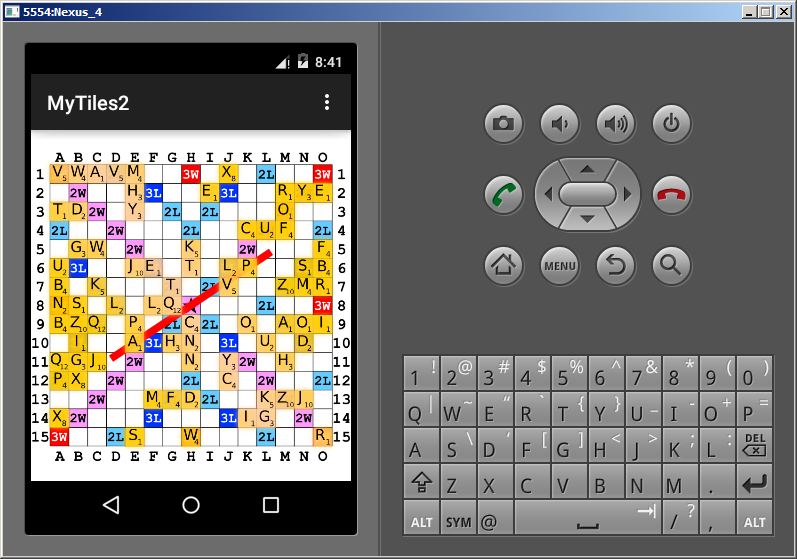
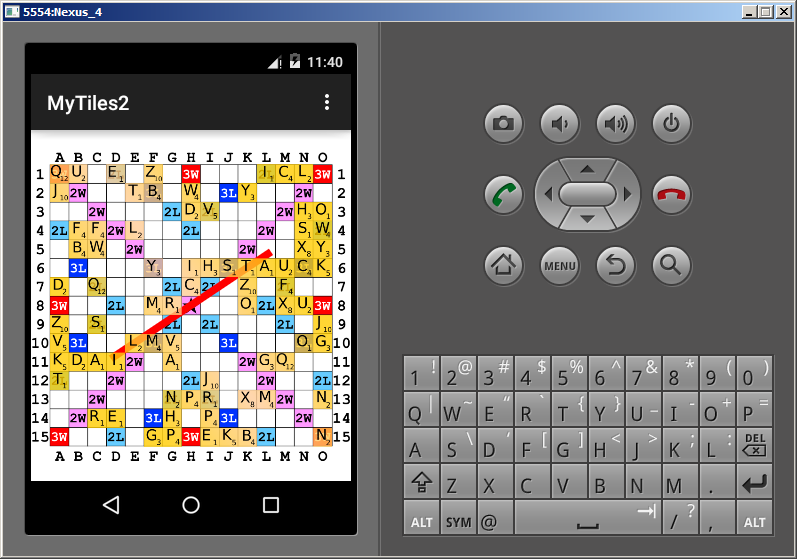
Don't use round_XXX and square_XXX when drawing small tiles

Changed region(s): [[0.0602, 0.2737, 0.4216, 0.8211], [0.3312, 0.0912, 0.4517, 0.1216], [0.3915, 0.7603, 0.4216, 0.8211]]

diff --git a/MyTiles2/src/de/afarber/mytiles2/MyView.java b/MyTiles2/src/de/afarber/mytiles2/MyView.java
@@ -5,17 +5,15 @@ import java.util.Random;
 
 import android.annotation.TargetApi;
 import android.content.Context;
-import android.content.res.Resources;
 import android.graphics.Bitmap;
-import android.graphics.BitmapFactory;
-import android.graphics.BitmapShader;
+import android.graphics.BlurMaskFilter;
+import android.graphics.BlurMaskFilter.Blur;
 import android.graphics.Canvas;
 import android.graphics.Color;
 import android.graphics.LinearGradient;
 import android.graphics.Matrix;
 import android.graphics.Paint;
-import android.graphics.PorterDuff;
-import android.graphics.PorterDuffXfermode;
+import android.graphics.Point;
 import android.graphics.Shader.TileMode;
 import android.graphics.drawable.Drawable;
 import android.os.Build;
@@ -32,7 +30,15 @@ public class MyView extends View {
 	private static final boolean TOO_OLD = (Build.VERSION.SDK_INT < Build.VERSION_CODES.ICE_CREAM_SANDWICH);
 	
     private Drawable mGameBoard = getResources().getDrawable(R.drawable.game_board);
-    private Paint mPaint;
+    private Paint mPaintYellow;
+    private Paint mPaintRed;
+    private Paint mPaintBlur;
+    
+    private Bitmap mAllBitmap;
+    private Canvas mAllCanvas;
+    
+    private Point mGradStart;
+    private Point mGradEnd;
     
     private ArrayList<SmallTile> mTiles = new ArrayList<SmallTile>();
     private SmallTile mSmallTile = null;
@@ -142,40 +148,45 @@ public class MyView extends View {
         mHeight = mGameBoard.getIntrinsicHeight();
         mGameBoard.setBounds(0, 0, mWidth, mHeight);
         
-		mPaint = new Paint(Paint.ANTI_ALIAS_FLAG);
-		if (Build.VERSION.SDK_INT >= Build.VERSION_CODES.HONEYCOMB) {
-			setLayerType(View.LAYER_TYPE_SOFTWARE, null);
-		}
-		mPaint.setShadowLayer(8f, 0f, 0f, Color.BLACK);
+        mAllBitmap = Bitmap.createBitmap(mWidth, mHeight, Bitmap.Config.ARGB_8888);
+        mAllCanvas = new Canvas(mAllBitmap);
+        
+		mPaintYellow = new Paint(Paint.ANTI_ALIAS_FLAG);
+
+	    mGradStart = new Point(3 * mWidth / 4, mHeight / 3);
+	    mGradEnd = new Point(mWidth / 4, 2 * mHeight / 3);
 		
 		LinearGradient gradient = new LinearGradient(
-				3*mWidth/4,
-				mHeight/3,
-				mWidth/4,
-				2*mHeight/3,
-				new int[]{0xCCFFCC00, 0xCCFFCC99, 0xCCFFCC00},
+				mGradStart.x,
+				mGradStart.y,
+				mGradEnd.x,
+				mGradEnd.y,
+				new int[]{ 0xCCFFCC00, 0xCCFFCC99, 0xCCFFCC00 },
 		        null,
 		        TileMode.CLAMP);
-		mPaint.setShader(gradient);
+		mPaintYellow.setShader(gradient);
 		
-		/*
-		RadialGradient gradient = new RadialGradient(
-				mWidth / 2, 
-				mHeight / 2, 
-				Math.max(mWidth, mHeight), 
-		        0xCCFFCC99, 
-				0xCCFFCC00,
-		        android.graphics.Shader.TileMode.CLAMP);
-		mPaint.setShader(gradient);
-		*/
+		mPaintRed = new Paint(Paint.ANTI_ALIAS_FLAG);
+		mPaintRed.setColor(Color.RED);
+		mPaintRed.setStrokeWidth(16);
+
+		mPaintBlur = new Paint(Paint.ANTI_ALIAS_FLAG | Paint.FILTER_BITMAP_FLAG);
+		mPaintBlur.setColor(Color.BLACK);
+		mPaintBlur.setMaskFilter(new BlurMaskFilter(16, Blur.OUTER));
 		
-		/*
+		if (Build.VERSION.SDK_INT >= Build.VERSION_CODES.HONEYCOMB) {
+			//setLayerType(View.LAYER_TYPE_SOFTWARE, null);
+		}
+
+		//mPaintBlur.setShadowLayer(8f, 0f, 0f, Color.BLACK);
+		
+/*
         //Initialize the bitmap object by loading an image from the resources folder  
         Bitmap texture = BitmapFactory.decodeResource(context.getResources(), R.drawable.tile);  
         //Initialize the BitmapShader with the Bitmap object and set the texture tile mode  
         BitmapShader shader = new BitmapShader(texture, TileMode.REPEAT, TileMode.REPEAT);  
         mPaint.setShader(shader);
-        */
+*/
 
         // there are 15 cells in a row and 1 padding at each side
         SmallTile.sCellWidth = Math.round(mWidth / 17.0f);
@@ -228,7 +239,6 @@ public class MyView extends View {
 		            	int col = mSmallTile.getColumn();
 		            	int row = mSmallTile.getRow();
 		            	mGrid[col][row] = null;
-		            	updateNeighbors(col, row);
 		            	
 		            	mBigTile.copy(mSmallTile);
 		            	mBigTile.visible = true;
@@ -344,29 +354,28 @@ public class MyView extends View {
 
         mGameBoard.draw(canvas);
 
-		Paint paint = new Paint(Paint.ANTI_ALIAS_FLAG);
-		paint.setColor(Color.rgb(0xFF, 0, 0));
-		paint.setStrokeWidth(16);
+        canvas.drawLine(
+    		mGradStart.x,
+			mGradStart.y,
+			mGradEnd.x,
+			mGradEnd.y,
+			mPaintRed);
         
-		
-        canvas.drawLine(3*mWidth/4,
-				mHeight/3,
-				mWidth/4,
-				2*mHeight/3, paint);
-        
-        
+        mAllBitmap.eraseColor(Color.TRANSPARENT);
         for (SmallTile tile: mTiles) {
         	if (!tile.visible)
         		continue;
         	
-            canvas.drawRect(
+            mAllCanvas.drawRect(
             		tile.left, 
             		tile.top, 
             		tile.left + tile.width, 
             		tile.top + tile.height, 
-            		mPaint);
-            tile.draw(canvas);
+            		mPaintYellow);
+            tile.draw(mAllCanvas);
         }
+        
+        canvas.drawBitmap(mAllBitmap, 0, 0, mPaintBlur);
         
         mBigTile.draw(canvas);
     }
@@ -499,25 +508,6 @@ public class MyView extends View {
 	    return corner;
     }
 
-    // check the tiles at 3 x 3 or 2 x 2 sub-grid
-    private void updateNeighbors(int col, int row) {
-    	
-    	int startCol = Math.max(0, col - 1);
-    	int endCol   = Math.min(14, col + 1);
-    	int startRow = Math.max(0, row - 1);
-    	int endRow   = Math.min(14, row + 1);
-    	
-    	for (int i = startCol; i <= endCol; i++) {
-        	for (int j = startRow; j <= endRow; j++) {
-        		SmallTile tile = mGrid[i][j]; 
-        		if (tile != null) {
-        	    	boolean[] corner = buildCorners(i, j);
-        		    tile.setCorners(corner);
-        		}
-        	}
-    	}
-    }
-    
     private void alignToGrid(SmallTile tile) {
     	int col = tile.getColumn();
     	int row = tile.getRow();
@@ -531,37 +521,9 @@ public class MyView extends View {
     	}
     	
     	mGrid[col][row] = tile;
-    	updateNeighbors(col, row);
     	
     	tile.left = (col + 1) * SmallTile.sCellWidth;
     	tile.top = (row + 1) * SmallTile.sCellWidth;
     }
-    
-    // code by Pierre-Yves Ricau, http://piwai.info/transparent-jpegs-done-right/
-    @TargetApi(Build.VERSION_CODES.HONEYCOMB_MR1)
-	public static Bitmap getMaskedBitmap(Resources res, int sourceResId, int maskResId) {
-    	BitmapFactory.Options options = new BitmapFactory.Options();
-    	if (Build.VERSION.SDK_INT >= Build.VERSION_CODES.HONEYCOMB) {
-    		options.inMutable = true;
-    	}
-    	options.inPreferredConfig = Bitmap.Config.ARGB_8888;
-    	Bitmap source = BitmapFactory.decodeResource(res, sourceResId, options);
-    	Bitmap bitmap;
-    	if (source.isMutable()) {
-    		bitmap = source;
-    	} else {
-    		bitmap = source.copy(Bitmap.Config.ARGB_8888, true);
-    		source.recycle();
-    	}
-    	bitmap.setHasAlpha(true);
-    	Canvas canvas = new Canvas(bitmap);
-    	Bitmap mask = BitmapFactory.decodeResource(res, maskResId);
-    	Paint paint = new Paint();
-    	paint.setXfermode(new PorterDuffXfermode(PorterDuff.Mode.DST_IN));
-    	canvas.drawBitmap(mask, 0, 0, paint);
-    	mask.recycle();
-    	return bitmap;
-    }
-    
 }
 

diff --git a/MyTiles2/src/de/afarber/mytiles2/SmallTile.java b/MyTiles2/src/de/afarber/mytiles2/SmallTile.java
@@ -3,25 +3,17 @@ package de.afarber.mytiles2;
 import java.util.HashMap;
 
 import android.content.Context;
-import android.graphics.Bitmap;
+import android.content.res.Resources;
 import android.graphics.Canvas;
-import android.graphics.Paint;
 import android.graphics.drawable.Drawable;
-import android.util.Log;
+import android.util.DisplayMetrics;
 
 public class SmallTile {
 	private static final String PREFIX = "small_";
-	private static final String SQUARE = "square_";
-	private static final String ROUND = "round_";
-	private static final int TILE = R.drawable.round;
-	private static final int ALPHA = 200;
-	
 	private static final char[] LETTERS = {'A', 'B', 'C', 'D', 'E', 'F', 'G', 'H', 'I', 'J', 'K', 'L', 'M', 'N', 'O', 'P', 'Q', 'R', 'S', 'T', 'U', 'V', 'W', 'X', 'Y', 'Z'};
 	private static final int[] VALUES =   { 1,   4,   4,   2,   1,   4,   3,   3,   1,  10,   5,   2,   4,   2,   1,   4,  12,   1,   1,   1,   2,   5,   4,   8,   3,  10 };
 	private static HashMap<Character, Drawable> sLetters = new HashMap<Character, Drawable>();
 	private static HashMap<Character, Integer> sValues = new HashMap<Character, Integer>();
-	private static Drawable[] sSquare = new Drawable[4];
-	private static Drawable[] sRound = new Drawable[4];
 	
 	public static int sCellWidth;
 	
@@ -33,9 +25,6 @@ public class SmallTile {
 	public int height;
 	public boolean visible = true;
 	
-	private Bitmap mBitmap;
-	private Paint mPaint = new Paint(Paint.FILTER_BITMAP_FLAG);
-	
 	private char mLetter;
 	private int mValue;
 	
@@ -43,56 +32,21 @@ public class SmallTile {
 	    if (sLetters.size() == 0) {
 		    String packageName = context.getPackageName();
 		    
-		    for (int i = 0; i < 4; i++) {
-		    	int id = context.getResources().getIdentifier(SQUARE + i, "drawable", packageName);
-			    sSquare[i] = context.getResources().getDrawable(id);
-			    sSquare[i].setAlpha(ALPHA);
-		    	int w = sSquare[i].getIntrinsicWidth();
-		    	int h = sSquare[i].getIntrinsicHeight();
-		    	int x = (i % 2) * w;
-		    	int y = (i / 2) * h;
-		    	sSquare[i].setBounds(x, y, x + w, y + h);
-		    }
-		    
-		    for (int i = 0; i < 4; i++) {
-		    	int id = context.getResources().getIdentifier(ROUND + i, "drawable", packageName);
-			    sRound[i] = context.getResources().getDrawable(id);
-			    sRound[i].setAlpha(ALPHA);
-		    	int w = sRound[i].getIntrinsicWidth();
-		    	int h = sRound[i].getIntrinsicHeight();
-		    	int x = (i % 2) * w;
-		    	int y = (i / 2) * h;
-		    	sRound[i].setBounds(x, y, x + w, y + h);
-		    }
-		    
 		    for (int i = 0; i < LETTERS.length; i++) {
 		    	char c = LETTERS[i];
 		    	int v  = VALUES[i];
 		    	int id = context.getResources().getIdentifier(PREFIX + i, "drawable", packageName);
 		    	Drawable d = context.getResources().getDrawable(id);
-		    	d.setBounds(0, 0, d.getIntrinsicWidth(), d.getIntrinsicHeight());
+		    	int w = d.getIntrinsicWidth();
+		    	int h = d.getIntrinsicHeight();
+		    	d.setBounds(0, 0, w, h);
 		    	sLetters.put(c, d);
 		    	sValues.put(c, v);
 		    }
 	    }
 	    
-	    width = height = 2 * sSquare[0].getIntrinsicWidth();
-	    boolean[] corner = {false, false, false, false};
-	    setCorners(corner);
+	    width = height = convertDpToPixel(40, context);
 	}
-    
-    public void setCorners(boolean[] corner) {
-	    mBitmap = Bitmap.createBitmap(width, height, Bitmap.Config.ARGB_8888);
-	    Canvas canvas = new Canvas(mBitmap);
-	    
-	    // true means: there is a neighbor tile
-	    for (int i = 0; i < 4; i++) {
-	    	if (corner[i])
-	    		sSquare[i].draw(canvas);
-	    	else
-	    		sRound[i].draw(canvas);
-	    }
-    }
     
 	public void draw(Canvas canvas) {
 		if (!visible)
@@ -100,7 +54,6 @@ public class SmallTile {
 		
 		canvas.save();
 		canvas.translate(left, top);
-		//canvas.drawBitmap(mBitmap, 0, 0, mPaint);
 		Drawable d = sLetters.get(mLetter);
 		d.draw(canvas);
 		canvas.restore();
@@ -172,5 +125,11 @@ public class SmallTile {
 
     	return row;
 	}
+	
+	public static int convertDpToPixel(int dp, Context context) {
+	    Resources resources = context.getResources();
+	    DisplayMetrics metrics = resources.getDisplayMetrics();
+	    return (int) (dp * (metrics.densityDpi / 160f));
+	}	
 }
 

diff --git a/MyTiles2/src/de/afarber/mytiles2/BigTile.java b/MyTiles2/src/de/afarber/mytiles2/BigTile.java
@@ -3,8 +3,10 @@ package de.afarber.mytiles2;
 import java.util.HashMap;
 
 import android.content.Context;
+import android.content.res.Resources;
 import android.graphics.Canvas;
 import android.graphics.drawable.Drawable;
+import android.util.DisplayMetrics;
 
 public class BigTile {
 	private static final String PREFIX = "big_";
@@ -32,8 +34,7 @@ public class BigTile {
     public BigTile(Context context) {
     	mBackground = context.getResources().getDrawable(TILE);
         mBackground.setAlpha(ALPHA);
-    	width = mBackground.getIntrinsicWidth();
-    	height = mBackground.getIntrinsicHeight();
+    	width = height = convertDpToPixel(74, context);
     	mBackground.setBounds(0, 0, width, height);
     	
 	    if (sLetters.size() > 0)
@@ -114,5 +115,11 @@ public class BigTile {
 		savedLeft = tile.savedLeft - dX;
 		savedTop = tile.savedTop - dY;
 		setLetter(tile.getLetter());
+	}
+	
+	public static int convertDpToPixel(int dp, Context context) {
+	    Resources resources = context.getResources();
+	    DisplayMetrics metrics = resources.getDisplayMetrics();
+	    return (int) (dp * (metrics.densityDpi / 160f));
 	}	
 }
